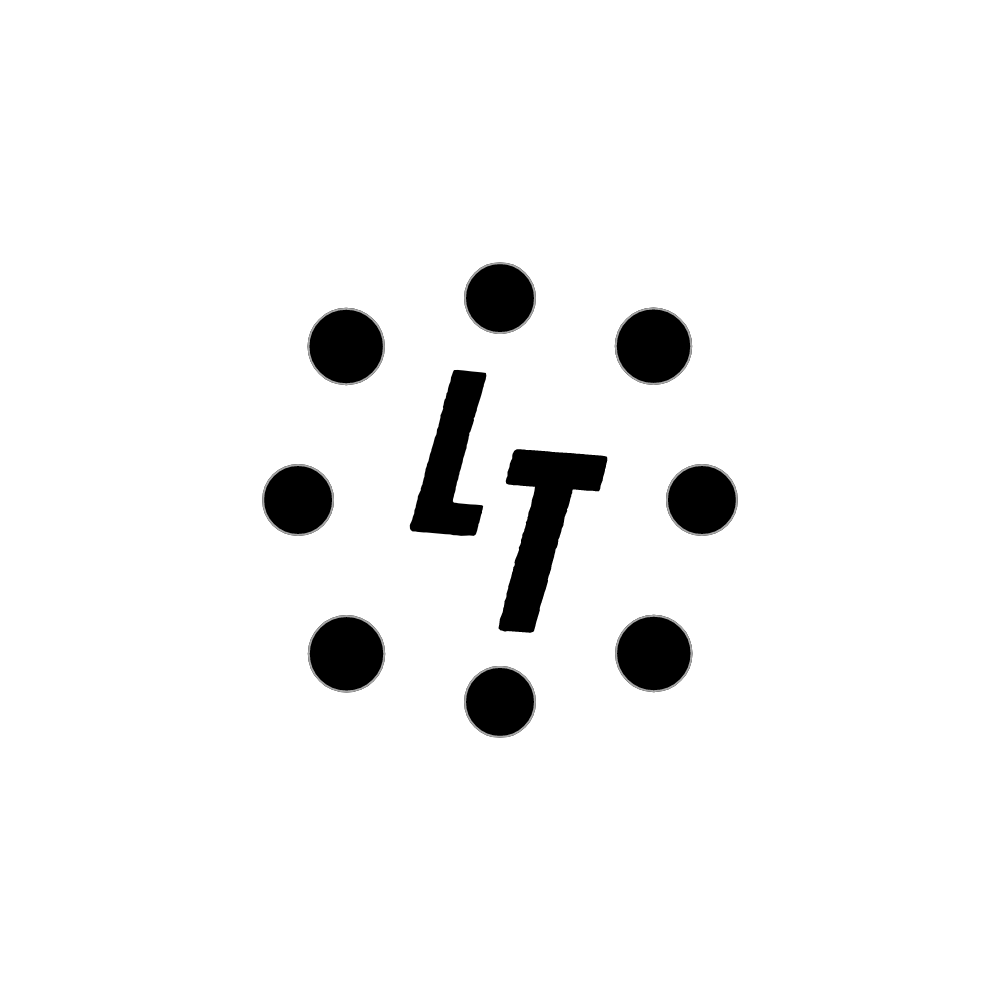
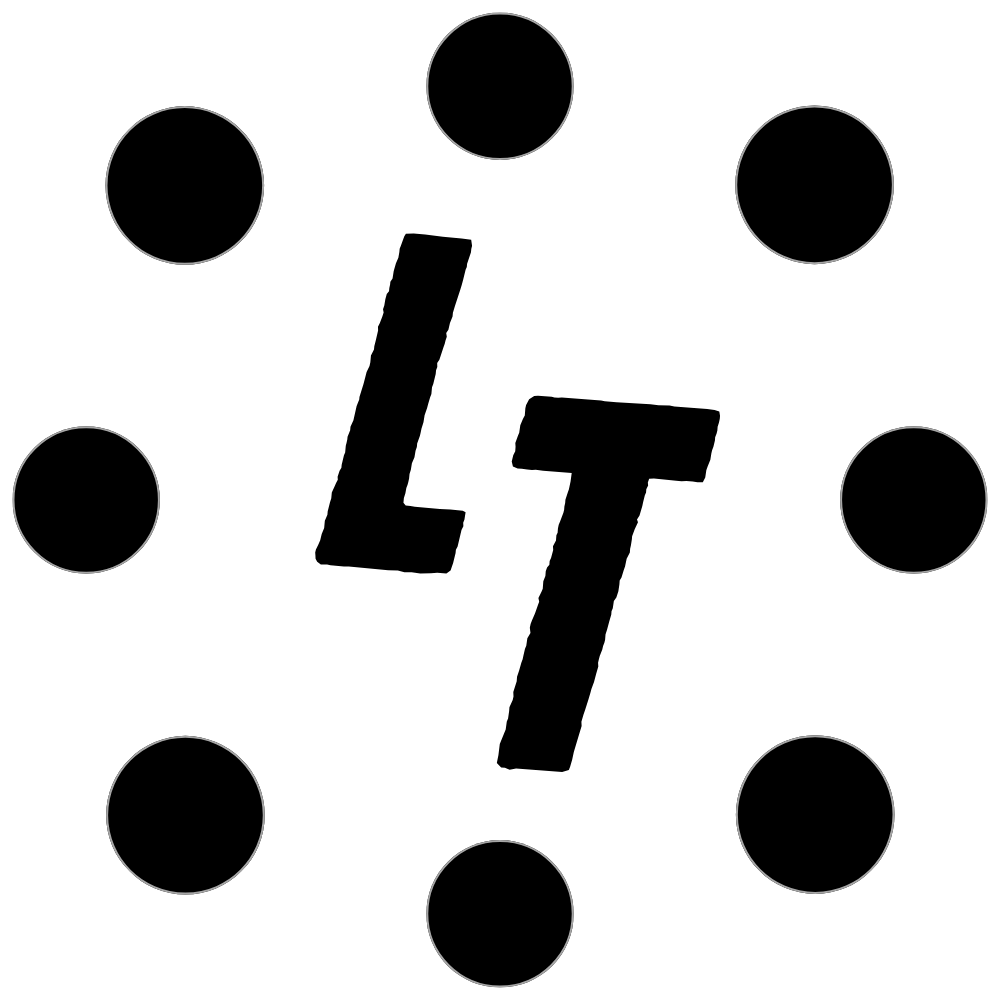
Uploaded Latest Files

diff --git a/subpages/articles.html b/subpages/articles.html
@@ -17,32 +17,34 @@
         <div class="row">
             <div class="col-sm-auto sticky-top">
                 <div class="d-flex flex-sm-column flex-row flex-nowrap align-items-center sticky-top">
-                    <a href="/" class="d-block p-3 link-dark text-decoration-none logo" title="" data-bs-toggle="tooltip" data-bs-placement="right" data-bs-original-title="Icon-only">
-                        <i class="bi-bootstrap fs-1 logo"><img class="logo" src="../src/res/images/Loading Tech.svg" alt=""></i>
-                    </a>
                     <ul class="nav nav-pills nav-flush flex-sm-column flex-row flex-nowrap mb-auto mx-auto text-center align-items-center">
                         <li class="nav-item">
-                            <a href="#" class="nav-link py-3 px-2" title="" data-bs-toggle="tooltip" data-bs-placement="right" data-bs-original-title="Home">
+                            <a href="../index.html" class="nav-link py-3 px-2" title="" data-bs-toggle="tooltip" data-bs-placement="right" data-bs-original-title="Home">
+                                <i class="bi-house fs-1 logo"><img class="logo" id="SiteLogo" src="../src/res/images/Loading Tech (1).svg" alt=""></i>
+                            </a>
+                        </li>
+                        <li class="nav-item">
+                            <a href="../index.html" class="nav-link py-3 px-2" title="" data-bs-toggle="tooltip" data-bs-placement="right" data-bs-original-title="Home">
                                 <i class="bi-house fs-1"><img src="../src/res/images/Icons/Home.svg" alt=""></i>
                             </a>
                         </li>
                         <li>
-                            <a href="#" class="nav-link py-3 px-2" title="" data-bs-toggle="tooltip" data-bs-placement="right" data-bs-original-title="Dashboard">
+                            <a href="#" class="nav-link py-3 px-2" title="" data-bs-toggle="tooltip" data-bs-placement="right" data-bs-original-title="Search">
                                 <i class="bi-speedometer2 fs-1"><img src="../src/res/images/Icons/Search.svg" alt=""></i>
                             </a>
                         </li>
                         <li>
-                            <a href="#" class="nav-link py-3 px-2" title="" data-bs-toggle="tooltip" data-bs-placement="right" data-bs-original-title="Orders">
+                            <a href="#" class="nav-link py-3 px-2" title="" data-bs-toggle="tooltip" data-bs-placement="right" data-bs-original-title="Live">
                                 <i class="bi-table fs-1"><img src="../src/res/images/Icons/Live.svg" alt=""></i>
                             </a>
                         </li>
                         <li>
-                            <a href="#" class="nav-link py-3 px-2" title="" data-bs-toggle="tooltip" data-bs-placement="right" data-bs-original-title="Products">
+                            <a href="#" class="nav-link py-3 px-2" title="" data-bs-toggle="tooltip" data-bs-placement="right" data-bs-original-title="Info">
                                 <i class="bi-heart fs-1"><img src="../src/res/images/Icons/Info.svg" alt=""></i>
                             </a>
                         </li>
                         <li style="position: fixed;bottom: 0;">
-                            <a class="nav-link py-3 px-2" id="Change" title="" data-bs-toggle="tooltip" data-bs-placement="right" data-bs-original-title="Products">
+                            <a class="nav-link py-3 px-2" id="Change" title="" data-bs-toggle="tooltip" data-bs-placement="right" data-bs-original-title="Change Mode">
                                 <i class="bi-heart fs-1"><button id="Change" style="background-color: #ffffff00;display: block;border: none;user-select: none;"><img src="../src/res/images/Icons/sun.svg" id="ChangeImage" alt=""></button></i>
                             </a>
                         </li>
@@ -62,8 +64,26 @@
                 </div>
             </div>
             <!--Page Content Start-->
-            <div class="col-sm p-3 min-vh-100">
-  
+            <div class="col-sm p-3 min-vh-100 text-center">
+                <h1 class="my-4">Article Title</h1>
+                <p class="lead">This is a brief introduction to the article. It summarizes the main points.</p>
+                
+                <hr>
+
+                <h2>Section 1: Introduction</h2>
+                <p>This is where you can introduce the topic of the article. Provide background information and context.</p>
+
+                <h2>Section 2: Main Content</h2>
+                <p>Here you can delve into the details of your article. Use headings, paragraphs, and lists to organize the content effectively.</p>
+                
+                <ul>
+                    <li>Point 1</li>
+                    <li>Point 2</li>
+                    <li>Point 3</li>
+                </ul>
+
+                <h2>Section 3: Conclusion</h2>
+                <p>Summarize the key points made in the article and provide any final thoughts or calls to action.</p>
             </div>
             <!--Page Content End-->
         </div>
@@ -73,5 +93,6 @@
     <script src="https://cdn.jsdelivr.net/npm/bootstrap@4.6.2/dist/js/bootstrap.bundle.min.js" integrity="sha384-Fy6S3B9q64WdZWQUiU+q4/2Lc9npb8tCaSX9FK7E8HnRr0Jz8D6OP9dO5Vg3Q9ct" crossorigin="anonymous"></script>
 
     <script src="../src/js/buttons.js"></script>
+    <script src="../src/js/main2.js"></script>
 </body>
 </html>

diff --git a/index.html b/index.html
@@ -17,10 +17,12 @@
         <div class="row">
             <div class="col-sm-auto sticky-top">
                 <div class="d-flex flex-sm-column flex-row flex-nowrap align-items-center sticky-top">
-                    <a href="/" class="d-block p-3 link-dark text-decoration-none logo" title="" data-bs-toggle="tooltip" data-bs-placement="right" data-bs-original-title="Icon-only">
-                        <i class="bi-bootstrap fs-1 logo"><img class="logo" src="./src/res/images/Loading Tech.svg" alt=""></i>
-                    </a>
                     <ul class="nav nav-pills nav-flush flex-sm-column flex-row flex-nowrap mb-auto mx-auto text-center align-items-center">
+                        <li class="nav-item">
+                            <a href="#" class="nav-link py-3 px-2" title="" data-bs-toggle="tooltip" data-bs-placement="right" data-bs-original-title="Home">
+                                <i class="bi-house fs-1 logo"><img class="logo" id="SiteLogo" src="../src/res/images/Loading Tech (1).svg" alt=""></i>
+                            </a>
+                        </li>
                         <li class="nav-item">
                             <a href="#" class="nav-link py-3 px-2" title="" data-bs-toggle="tooltip" data-bs-placement="right" data-bs-original-title="Home">
                                 <i class="bi-house fs-1"><img src="./src/res/images/Icons/Home.svg" alt=""></i>
@@ -162,14 +164,14 @@
                                         </div>
                                     </div>
                                 </div>
+                                <div class="d-flex justify-content-center align-items-center w">
+                                    <div class="d-flex justify-content-between align-items-center">
+                                        <button type="button" id="read-more" class="btn btn-sm btn-outline-secondary">Ver Mais</button>
+                                    </div>
+                                </div>
                             </div>
                                 <!--Weekly News End-->
                             </div>
-                    </div>
-                    <div class="d-flex justify-content-center align-items-center w">
-                        <div class="d-flex justify-content-between align-items-center">
-                            <button type="button" id="read-more" class="btn btn-sm btn-outline-secondary">Ver Mais</button>
-                        </div>
                     </div>
                 </div>
 

diff --git a/src/css/style.css b/src/css/style.css
@@ -10,6 +10,7 @@
     --sidenav-hover-text-color: #E7E0EC;
     --text-color: #EEEEEE;
     --current-icon: url('../res/images/Icons/sun.svg');
+    --current-logo: url('../res/images/Loading\ Tech.svg');
     background-image: url("../res/images/Backgrounds/endless-constellation.svg");
 }
 
@@ -21,6 +22,7 @@
     --sidenav-hover-text-color: #E7E0EC;
     --text-color: #000000;
     --current-icon: url('../res/images/Icons/Moon.svg');
+    --current-logo: url('../res/images/Loading\ Tech\ \(1\).svg');
     background-image: url("../res/images/Backgrounds/endless-constellationL.svg");
 }
 

diff --git a/src/js/main2.js b/src/js/main2.js
@@ -1,7 +1,9 @@
 var changeButton = document.getElementById("Change");
 var ChangeImage = document.getElementById("ChangeImage");
+var changeIcon = document.getElementById("SiteLogo")
 
-var ColorMode = ["./src/res/images/Icons/Moon.svg", "./src/res/images/Icons/sun.svg"];
+var ColorMode = ["../src/res/images/Icons/Moon.svg", "../src/res/images/Icons/sun.svg"];
+var LogoColorMode = ['../res/images/Loading\ Tech.svg', '../res/images/Loading\ Tech\ \(1\).svg'];
 
 // Initialize darkMode in localStorage if it doesn't exist
 if (localStorage.getItem("darkMode") === null) {
